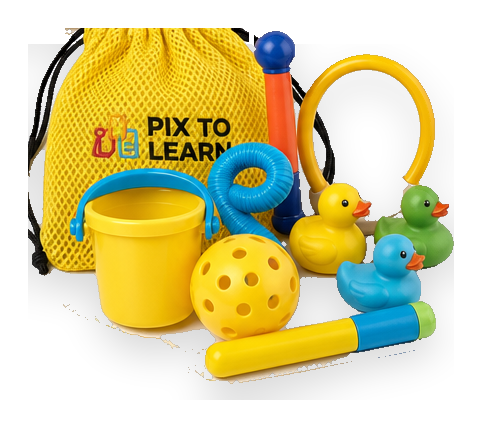
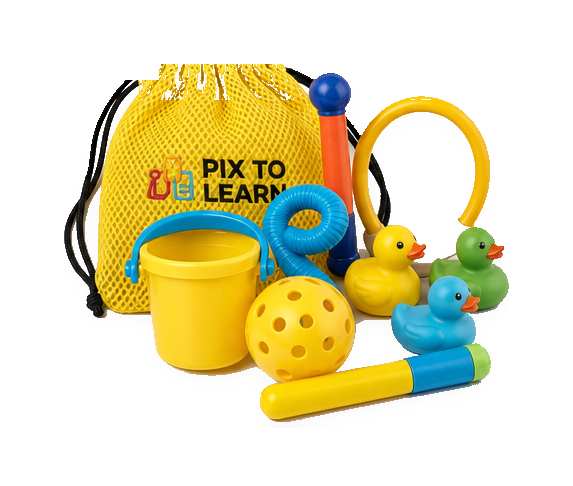
Cut the yellow bag clean of the paper plate and center it in the toys panel.

diff --git a/swimming-packs.html b/swimming-packs.html
@@ -1,6 +1,6 @@
 <!DOCTYPE html>
 
-<html lang="en"><head><meta charset="utf-8"/><meta content="width=device-width,initial-scale=1" name="viewport"/><title>Swimming Packs · PixtoLearn</title><link href="style.css?v=nav1" rel="stylesheet"/><link href="brand-shift.css?v=help2" rel="stylesheet"/><link href="refined.css?v=help4" rel="stylesheet"/><link href="brand-buttons.css" rel="stylesheet"/><link href="hero-carousel.css?v=veil3" rel="stylesheet"/><link href="swimming-story.css" rel="stylesheet"/><link href="swimming-flow.css?v=tabs5" rel="stylesheet"/></head><body class="brand-page swim-page"><div class="intro-strip"></div><header><a aria-label="PixtoLearn home" href="index.html"><img alt="PixtoLearn" class="logo" src="assets/logo.png"/></a><nav aria-label="Main navigation" id="nav"><a href="app.html">App</a><a aria-current="page" class="active" href="swimming-packs.html">Swimming Packs</a><a href="updates.html">Updates</a><a href="shop.html">Shop</a><a class="mobile-member-link" href="account.html">My account</a><a class="mobile-member-link" href="cart.html">Shopping cart</a></nav><div class="header-actions"><div class="lang-switch" data-lang-switch><button type="button" class="lang-toggle" aria-haspopup="listbox" aria-expanded="false" aria-label="Language"><span class="lang-flag" data-lang-flag>🇬🇧</span></button><ul class="lang-menu" role="listbox" hidden><li><button type="button" role="option" data-set-lang="en"><span aria-hidden="true">🇬🇧</span> English</button></li><li><button type="button" role="option" data-set-lang="es"><span aria-hidden="true">🇪🇸</span> Español</button></li><li><button type="button" role="option" data-set-lang="fr"><span aria-hidden="true">🇫🇷</span> Français</button></li><li><button type="button" role="option" data-set-lang="it"><span aria-hidden="true">🇮🇹</span> Italiano</button></li><li><button type="button" role="option" data-set-lang="pt"><span aria-hidden="true">🇵🇹</span> Português</button></li><li><button type="button" role="option" data-set-lang="de"><span aria-hidden="true">🇩🇪</span> Deutsch</button></li></ul></div><a class="button" href="http://localhost:3001/intro" rel="noopener" target="_blank">Open app</a><div aria-label="Account, cart and navigation" class="utility-cluster"><a aria-label="My account" class="header-icon" href="account.html"><svg aria-hidden="true" viewbox="0 0 24 24"><circle cx="12" cy="8" r="3.5"></circle><path d="M4.5 21v-2a7.5 7.5 0 0 1 15 0v2"></path></svg></a><a aria-label="Shopping cart" class="header-icon" href="cart.html"><svg aria-hidden="true" viewbox="0 0 24 24"><path d="M5 7h14l1 14H4L5 7Z"></path><path d="M8 7V5a4 4 0 0 1 8 0v2"></path></svg><span data-cart-count="" hidden=""></span></a><button aria-controls="nav" aria-expanded="false" aria-label="Open navigation" class="menu-toggle"><span aria-hidden="true" class="menu-lines"><i></i><i></i></span><span class="sr-only">Menu</span></button></div></div></header><main class="brand-main">
+<html lang="en"><head><meta charset="utf-8"/><meta content="width=device-width,initial-scale=1" name="viewport"/><title>Swimming Packs · PixtoLearn</title><link href="style.css?v=nav1" rel="stylesheet"/><link href="brand-shift.css?v=help2" rel="stylesheet"/><link href="refined.css?v=help4" rel="stylesheet"/><link href="brand-buttons.css" rel="stylesheet"/><link href="hero-carousel.css?v=veil3" rel="stylesheet"/><link href="swimming-story.css" rel="stylesheet"/><link href="swimming-flow.css?v=bag6" rel="stylesheet"/></head><body class="brand-page swim-page"><div class="intro-strip"></div><header><a aria-label="PixtoLearn home" href="index.html"><img alt="PixtoLearn" class="logo" src="assets/logo.png"/></a><nav aria-label="Main navigation" id="nav"><a href="app.html">App</a><a aria-current="page" class="active" href="swimming-packs.html">Swimming Packs</a><a href="updates.html">Updates</a><a href="shop.html">Shop</a><a class="mobile-member-link" href="account.html">My account</a><a class="mobile-member-link" href="cart.html">Shopping cart</a></nav><div class="header-actions"><div class="lang-switch" data-lang-switch><button type="button" class="lang-toggle" aria-haspopup="listbox" aria-expanded="false" aria-label="Language"><span class="lang-flag" data-lang-flag>🇬🇧</span></button><ul class="lang-menu" role="listbox" hidden><li><button type="button" role="option" data-set-lang="en"><span aria-hidden="true">🇬🇧</span> English</button></li><li><button type="button" role="option" data-set-lang="es"><span aria-hidden="true">🇪🇸</span> Español</button></li><li><button type="button" role="option" data-set-lang="fr"><span aria-hidden="true">🇫🇷</span> Français</button></li><li><button type="button" role="option" data-set-lang="it"><span aria-hidden="true">🇮🇹</span> Italiano</button></li><li><button type="button" role="option" data-set-lang="pt"><span aria-hidden="true">🇵🇹</span> Português</button></li><li><button type="button" role="option" data-set-lang="de"><span aria-hidden="true">🇩🇪</span> Deutsch</button></li></ul></div><a class="button" href="http://localhost:3001/intro" rel="noopener" target="_blank">Open app</a><div aria-label="Account, cart and navigation" class="utility-cluster"><a aria-label="My account" class="header-icon" href="account.html"><svg aria-hidden="true" viewbox="0 0 24 24"><circle cx="12" cy="8" r="3.5"></circle><path d="M4.5 21v-2a7.5 7.5 0 0 1 15 0v2"></path></svg></a><a aria-label="Shopping cart" class="header-icon" href="cart.html"><svg aria-hidden="true" viewbox="0 0 24 24"><path d="M5 7h14l1 14H4L5 7Z"></path><path d="M8 7V5a4 4 0 0 1 8 0v2"></path></svg><span data-cart-count="" hidden=""></span></a><button aria-controls="nav" aria-expanded="false" aria-label="Open navigation" class="menu-toggle"><span aria-hidden="true" class="menu-lines"><i></i><i></i></span><span class="sr-only">Menu</span></button></div></div></header><main class="brand-main">
 <section class="brand-hero photographic-hero swim-hero">
 <div class="brand-hero-copy">
 <span class="eyebrow">PIXTOLEARN SWIMMING · PHYSICAL COLLECTION</span>
@@ -179,7 +179,7 @@
 <p>The toys travel in the yellow bag.</p>
 </div>
 <figure class="kit-solo">
-<img alt="The yellow bag" src="assets/kit-yellow-bag.png?v=kit4"/>
+<img alt="The yellow bag" src="assets/kit-yellow-bag.png?v=kit6"/>
 </figure>
 </div>
 </div>

diff --git a/swimming-flow.css b/swimming-flow.css
@@ -36,6 +36,8 @@
 .case-split{display:grid;grid-template-columns:minmax(220px,.7fr) minmax(240px,.9fr);column-gap:40px;align-items:center;min-height:0}
 .kit-solo{display:flex;align-items:center;justify-content:center;margin:0;min-height:0;width:100%}
 .kit-solo img{display:block;width:auto;height:auto;max-width:min(100%,420px);max-height:300px;object-fit:contain;object-position:center;background:transparent;border-radius:0}
+.case-panel[data-chapter-panel="toys"] .kit-solo{display:flex;align-items:center;justify-content:center;width:100%;margin:0 auto}
+.case-panel[data-chapter-panel="toys"] .kit-solo img{display:block;margin:0 auto;width:auto;height:auto;max-width:min(100%,480px);max-height:360px;object-fit:contain;object-position:center center;background:transparent}
 .swim-brief-head p,.who-head p{max-width:38em}
 .folder-pass,.kind-pass{display:grid;column-gap:48px;align-items:center;margin-top:10px}
 .folder-pass{grid-template-columns:minmax(340px,1.25fr) minmax(240px,.75fr)}
